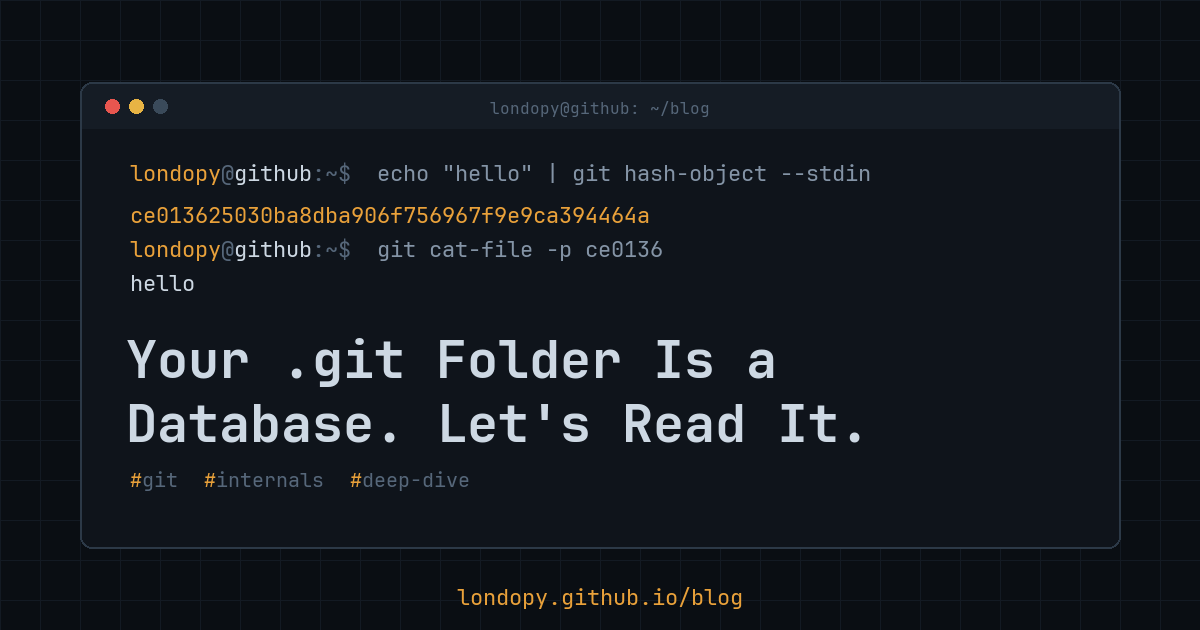
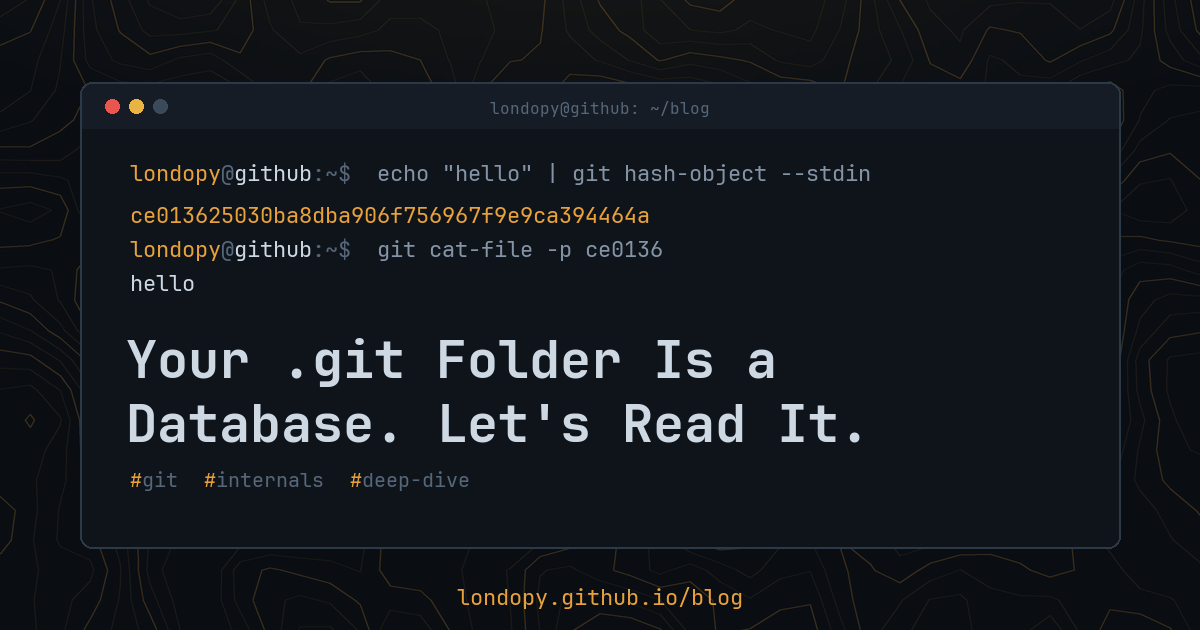
Covers: topographic contour background, like londopy.github.io

Changed region(s): [[0.6167, 0.9952, 0.6475, 1.0]]

diff --git a/scripts/make_cover.py b/scripts/make_cover.py
@@ -1,8 +1,10 @@
 #!/usr/bin/env python3
 """Generate social cards (1200x630) as terminal-window cards.
 
-Same look as the Open Graph cards on londopy.github.io, so a shared post and
-a shared project read as one site.
+The window sits on the same amber topographic contours as the background of
+londopy.github.io, so the blog and the portfolio read as one site. Each
+card's terrain is seeded from its slug: different per post, identical on
+every run.
 
     python scripts/make_cover.py --all
     python scripts/make_cover.py content/posts/<slug>
@@ -24,15 +26,15 @@ Requires Pillow. Strip metadata before committing anyway:
 import argparse
 import json
 import os
+import random
 import re
-from PIL import Image, ImageDraw, ImageFont
+from PIL import Image, ImageColor, ImageDraw, ImageFont
 
 W, H = 1200, 630
 BG = "#0a0e13"
 PANEL = "#0f141b"
 TITLEBAR = "#151c25"
 BORDER = "#2c3947"
-GRID = "#131a23"
 TEXT = "#cdd8e3"
 DIM = "#8494a6"
 FAINT = "#56677a"
@@ -49,6 +51,12 @@ POSTS = os.path.join(ROOT, "content", "posts")
 MANIFEST = os.path.join(ROOT, "scripts", "covers.json")
 PROMPT = [("londopy", ACCENT), ("@", FAINT), ("github", TEXT), (":~$", FAINT)]
 MAX_LINES = 5   # prompt + 4; more would push the tags out of the window
+
+# Background, after TopoBackground.astro on londopy.github.io: the same noise
+# octaves, 13 contour levels, amber lines at 9% with every third at 20%.
+TOPO_LEVELS = 13
+TOPO_COLS, TOPO_ROWS = 40, 21       # marching-squares cells, 30 px each
+TOPO_SCALE = 3                      # drawn at 3x and shrunk, for smooth lines
 
 
 def find_font(candidates):
@@ -93,13 +101,89 @@ def front_matter(md):
     return scalar("title"), scalar("description"), [t for t in tags if t]
 
 
-def base_card():
-    img = Image.new("RGB", (W, H), BG)
+def wash(size):
+    """The portfolio's faint glow at the top:
+    radial-gradient(ellipse 90% 55% at 50% -12%, accent at 6%, transparent 70%)."""
+    lw, lh = 240, 126                       # smooth enough to scale up
+    small = Image.new("RGB", (lw, lh))
+    px = small.load()
+    bg, ac = ImageColor.getrgb(BG), ImageColor.getrgb(ACCENT)
+    cx, cy, rx, ry = 0.5 * lw, -0.12 * lh, 0.9 * lw, 0.55 * lh
+    for y in range(lh):
+        for x in range(lw):
+            dist = (((x + 0.5 - cx) / rx) ** 2 + ((y + 0.5 - cy) / ry) ** 2) ** 0.5
+            a = 0.06 * max(0.0, 1 - dist / 0.7)
+            px[x, y] = tuple(round(b + (c - b) * a) for b, c in zip(bg, ac))
+    return small.resize(size, Image.Resampling.BILINEAR)
+
+
+def topo_background(seed):
+    """Contour lines traced with marching squares over three octaves of seeded
+    value noise, the way the londopy.github.io background draws them."""
+    rng = random.Random(seed)
+    smooth = lambda t: t * t * (3 - 2 * t)
+
+    def lattice(gw, gh):
+        return gw, gh, [[rng.random() for _ in range(gw + 1)] for _ in range(gh + 1)]
+
+    def sample(lat, u, v):
+        gw, gh, g = lat
+        x, y = u * gw, v * gh
+        x0, y0 = min(int(x), gw - 1), min(int(y), gh - 1)
+        tx, ty = smooth(x - x0), smooth(y - y0)
+        top = g[y0][x0] + (g[y0][x0 + 1] - g[y0][x0]) * tx
+        bot = g[y0 + 1][x0] + (g[y0 + 1][x0 + 1] - g[y0 + 1][x0]) * tx
+        return top + (bot - top) * ty
+
+    octaves = [(0.55, lattice(6, 3)), (0.3, lattice(12, 6)), (0.15, lattice(24, 12))]
+    cols, rows = TOPO_COLS, TOPO_ROWS
+    vals = [[sum(w * sample(lat, i / cols, j / rows) for w, lat in octaves)
+             for i in range(cols + 1)] for j in range(rows + 1)]
+    lo, hi = min(map(min, vals)), max(map(max, vals))
+    vals = [[(v - lo) / (hi - lo) for v in row] for row in vals]
+
+    s = TOPO_SCALE
+    cw, ch = W * s / cols, H * s / rows
+    base = wash((W * s, H * s)).convert("RGBA")
+    layer = Image.new("RGBA", base.size, (0, 0, 0, 0))
+    d = ImageDraw.Draw(layer)
+    accent = ImageColor.getrgb(ACCENT)
+
+    def cross(ax, ay, av, bx, by, bv, level):
+        t = (level - av) / ((bv - av) or 1e-6)
+        return ax + (bx - ax) * t, ay + (by - ay) * t
+
+    for n in range(1, TOPO_LEVELS + 1):
+        level = n / (TOPO_LEVELS + 1)
+        index = n % 3 == 0                  # the brighter "index" contours
+        fill = accent + (round(255 * (0.20 if index else 0.09)),)
+        width = round(s * (1.4 if index else 1.0))
+        for j in range(rows):
+            for i in range(cols):
+                x, y = i * cw, j * ch
+                tl, tr, br, bl = vals[j][i], vals[j][i + 1], vals[j + 1][i + 1], vals[j + 1][i]
+                case = (tl > level) << 3 | (tr > level) << 2 | (br > level) << 1 | (bl > level)
+                if case in (0, 15):
+                    continue
+                top = cross(x, y, tl, x + cw, y, tr, level)
+                right = cross(x + cw, y, tr, x + cw, y + ch, br, level)
+                bottom = cross(x + cw, y + ch, br, x, y + ch, bl, level)
+                left = cross(x, y, tl, x, y + ch, bl, level)
+                pairs = {1: [(left, bottom)], 14: [(left, bottom)], 2: [(bottom, right)],
+                         13: [(bottom, right)], 3: [(left, right)], 12: [(left, right)],
+                         4: [(top, right)], 11: [(top, right)], 6: [(top, bottom)],
+                         9: [(top, bottom)], 7: [(top, left)], 8: [(top, left)],
+                         5: [(top, left), (bottom, right)],
+                         10: [(top, right), (bottom, left)]}[case]
+                for a, b in pairs:
+                    d.line([a, b], fill=fill, width=width)
+    img = Image.alpha_composite(base, layer).convert("RGB")
+    return img.resize((W, H), Image.Resampling.LANCZOS)
+
+
+def base_card(seed):
+    img = topo_background(seed)
     d = ImageDraw.Draw(img)
-    for x in range(0, W, 40):
-        d.line([(x, 0), (x, H)], fill=GRID, width=1)
-    for y in range(0, H, 40):
-        d.line([(0, y), (W, y)], fill=GRID, width=1)
     d.rounded_rectangle([PX, PY, PX + PW, PY + PH], radius=12,
                         fill=PANEL, outline=BORDER, width=2)
     d.rounded_rectangle([PX + 2, PY + 2, PX + PW - 2, PY + 46], radius=10, fill=TITLEBAR)
@@ -226,7 +310,7 @@ def cover(post_dir, lines):
     title, description, tags = front_matter(md)
     slug = os.path.basename(os.path.normpath(post_dir))
 
-    img, d = base_card()
+    img, d = base_card(slug)
     if lines:
         y = terminal(d, lines, slug)
     else:
@@ -264,7 +348,7 @@ def cover(post_dir, lines):
 
 def site_card():
     """The card for pages without a cover: the blog's own title card."""
-    img, d = base_card()
+    img, d = base_card("site")
     segments(d, LEFT, 172, PROMPT + [("  ls ~/blog/posts", DIM)], ImageFont.truetype(MONO, 24))
 
     segments(d, LEFT - 4, 218, [("Londopy", TEXT), ("/blog", ACCENT)],
